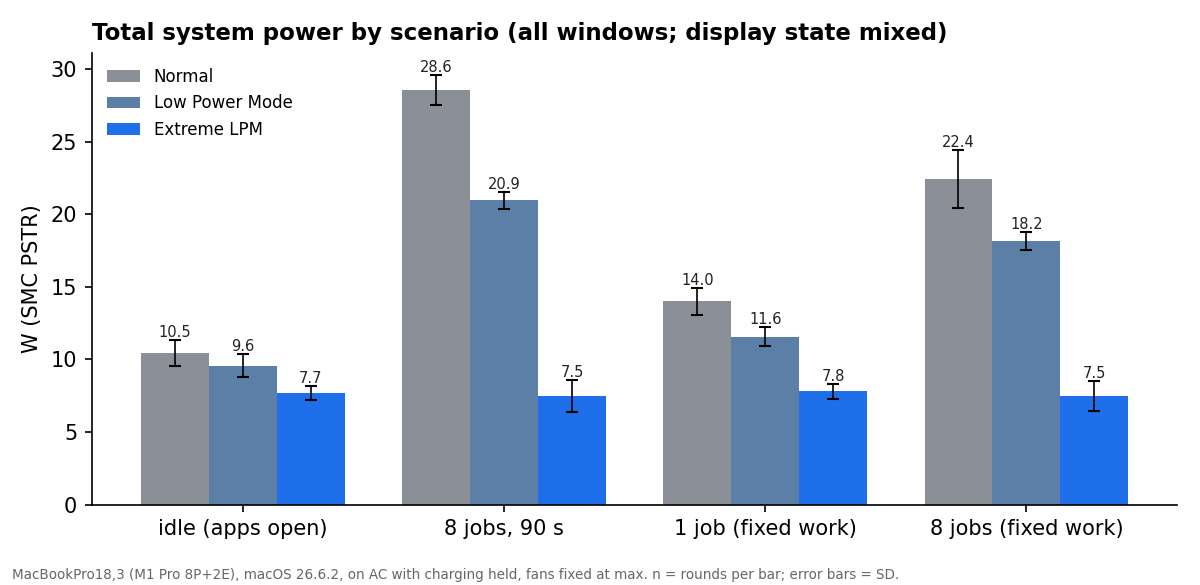
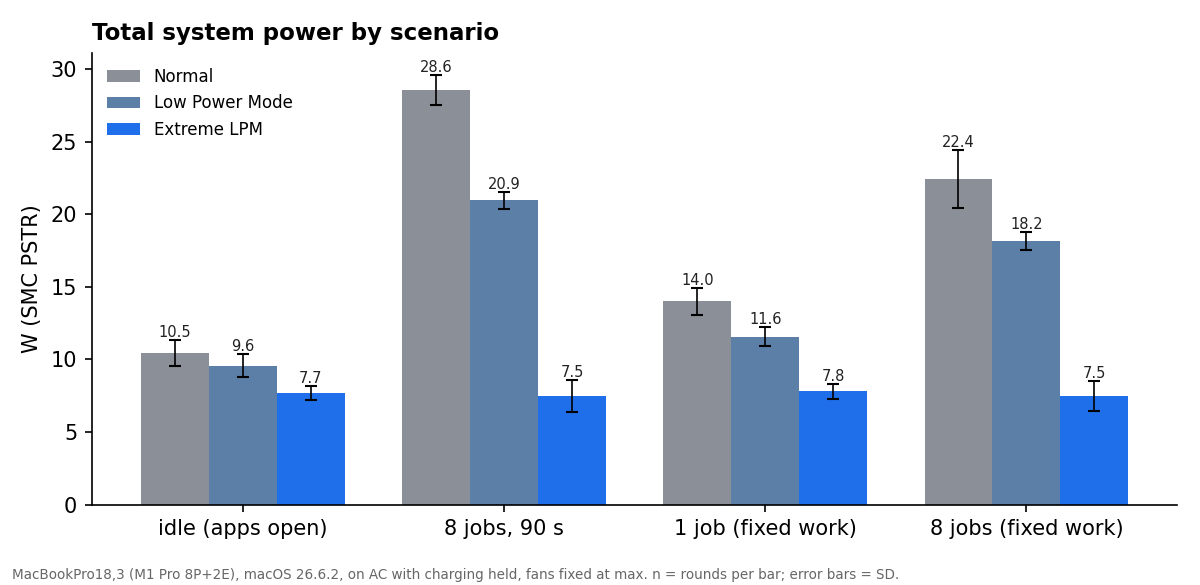
Match the docs and report figures to the measured data
- README: a demoted app brought to the front takes 3-31 s to get full speed back, not right away
- Report: Extreme single-job times are 86 / 108 / 317 s (107.6 s in the data)
- Report figures: the versions the article uses (updated titles and footers)

Changed region(s): [[0.4317, 0.0308, 0.8017, 0.0923]]

diff --git a/README.md b/README.md
@@ -104,7 +104,7 @@ The daemon reads battery %, temperature and charging state from `ioreg -rn Apple
   - Battery Tool itself
   - the protected list, which is configurable
 - The protected list defaults to Finder, Dock, Terminal and `@frontmost` (the frontmost app). Names match the process name, the executable name or any enclosing `.app` bundle. For example, `Terminal` protects everything inside `Terminal.app`, but not the shells you run in it.
-- An app that becomes frontmost is restored to normal priority right away.
+- An app that becomes frontmost is restored to normal priority, but not instantly: in testing it took 3 to 31 s (typically about 11 s) to get full speed back.
 - Child processes inherit background QoS from a throttled parent. They are recorded and restored as well, including children that were reparented to launchd (e.g. a `tmux` server started from a throttled shell). Processes that were already in the background before the mode was turned on are left alone.
 - Every change is written to the change record **before** it is made (`/usr/local/var/battery-tool/changes.tsv`): the original Low Power Mode values, and each process's pid, start time, original priority and nice value. Turning the mode off, pausing, stopping the daemon, a crash followed by restart, or uninstalling all undo every recorded change.
 - **Audio protection** (`audio_safe_mode`, on by default): the process that is playing audio right now is never demoted, and is restored if it already was. Battery Tool asks CoreAudio which processes are outputting audio (macOS 14.2 or later), so no app names are involved. Protection lasts `audio_grace_seconds` (default 10) after the audio stops. `audio_protect_scope` sets what is protected: `"pid_active"` (default: the playing process plus the processes in the same `.app` using at least 2 % CPU while it plays — for Chrome the audible tab's renderer and the GPU process, not idle tabs; this keeps background audio clean), `"pid"` (only the playing process; can stutter when the app is in the background), `"pid_tree"` (plus its direct parent and children) or `"bundle"` (every process in the same `.app`). If the detection fails, everything already demoted is restored and nothing new is demoted until it works again. Every protect and release is logged with the PID, name, command line, scope and reason. `battery-tool lowpower status` shows what is protected.

diff --git a/benchmarks/report/README.md b/benchmarks/report/README.md
@@ -139,7 +139,7 @@ short windows. **Chassis temperature was not measured** (no IR thermometer); pro
 
 | Fixed work, n = 3 | Normal | Low Power Mode | Extreme (this run) | Extreme (first run) |
 |---|---|---|---|---|
-| 1 job: time | 19.7 s | 25.7 s (1.3×) | 86 / 118 / 317 s (4–16×) | 414 / 693 / 1,960 s (21–100×) |
+| 1 job: time | 19.7 s | 25.7 s (1.3×) | 86 / 108 / 317 s (4–16×) | 414 / 693 / 1,960 s (21–100×) |
 | 1 job: its CPU time | 19.7 s | 25.7 s | 33–34 s | 34–35 s |
 | 1 job: OS energy estimate for the job itself | 36 J | 26 J | 6.6 J | 6.6 J |
 | 1 job: whole-system energy until done | 272 ± 19 J | 294 ± 22 J | 675–2,600 J (2.5–10×) | 4,520–9,590 J (20–50×, display mixed) |
